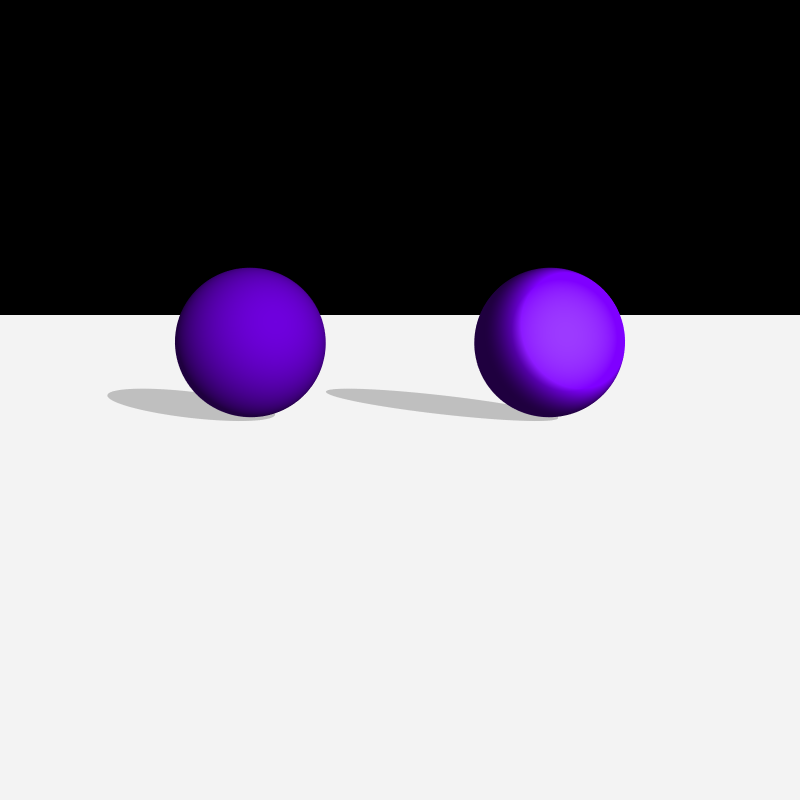
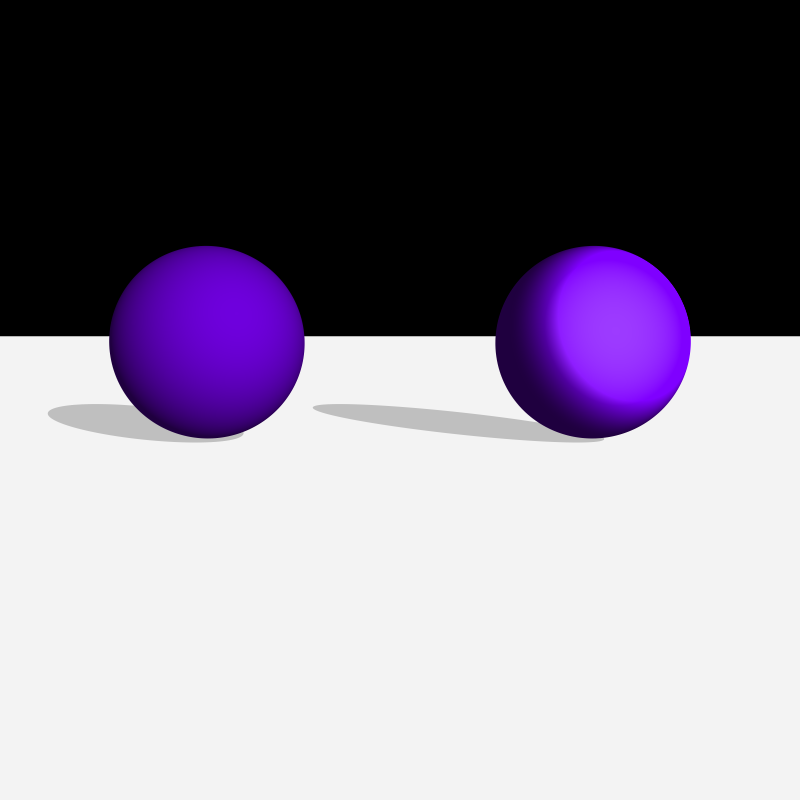
Added Ambient Occlusion, which will provide more shading to ambient points that are away from the light source

Changed region(s): [[0.0, 0.2812, 1.0, 0.5625]]

diff --git a/wxraytracer/wxRaytracer/raytracer/Lights/AmbientOccluder.cpp b/wxraytracer/wxRaytracer/raytracer/Lights/AmbientOccluder.cpp
@@ -1,0 +1,96 @@
+#include "AmbientOccluder.h"
+#include "World.h"
+
+AmbientOccluder::AmbientOccluder(void) : Light(), u(1.0,0.0,0.0), v(0.0,1.0,0.0), w(0.0,0.0,1.0), sampler_ptr(NULL), min_amount(0.0), ls(1.0), color(white){ }
+
+AmbientOccluder::AmbientOccluder(const AmbientOccluder& a) : Light(a), ls(a.ls), color(a.color),
+							u(a.u), v(a.v), w(a.w), sampler_ptr(a.sampler_ptr), min_amount(a.min_amount){ }
+
+Light* AmbientOccluder::clone(void) const{
+
+	return new AmbientOccluder(*this);
+}
+
+AmbientOccluder& AmbientOccluder::operator= (const AmbientOccluder& rhs){
+
+	if(this == &rhs)
+		return *this;
+
+	Light::operator=(rhs);
+
+	u = rhs.u;
+	v = rhs.v;
+	w = rhs.w;
+	color = rhs.color;
+	ls = rhs.ls;
+	sampler_ptr = rhs.sampler_ptr;
+	min_amount = rhs.min_amount;
+
+	return *this;
+
+}
+
+Vector3D AmbientOccluder::get_direction(ShadeRec& sr){
+
+	Point3D sp = sampler_ptr->sample_hemisphere();
+
+	return (sp.x * u + sp.y * v + sp.z * w);
+}
+
+RGBColor AmbientOccluder::L(ShadeRec& sr){
+
+	w = sr.normal;
+
+	// jitter up vector in case normal is vertical;
+	v = w ^ Vector3D(0.0072, 1.0 , 0.0034);
+	v.normalize();
+
+	u = v ^ w;
+
+	Ray shadow_ray;
+	shadow_ray.o = sr.hit_an_object;
+	shadow_ray.d = get_direction(sr);
+
+	if( in_shadow(shadow_ray, sr))
+		return min_amount * ls * color;
+	else
+		return ls * color;
+
+}
+
+bool AmbientOccluder::in_shadow(const Ray& ray, const ShadeRec& sr) const{
+	
+	float t;
+	int num_objects = sr.w.objects.size();
+
+	for (int i = 0; i < num_objects; ++i){
+
+		if(sr.w.objects[i]->shadow_hit(ray, t))
+			return true;
+
+	}
+	return false;
+}
+
+void AmbientOccluder::set_sampler(Sampler* s_ptr){
+
+	if(sampler_ptr){
+		
+		delete sampler_ptr;
+		sampler_ptr = NULL;
+
+	}
+
+	sampler_ptr = s_ptr;
+	sampler_ptr->map_samples_to_hemisphere(1);
+}
+
+AmbientOccluder::~AmbientOccluder(void)
+{
+	if(sampler_ptr){
+		
+		delete sampler_ptr;
+		sampler_ptr = NULL;
+
+	}
+}

diff --git a/wxraytracer/wxRaytracer/raytracer/Lights/AmbientOccluder.h b/wxraytracer/wxRaytracer/raytracer/Lights/AmbientOccluder.h
@@ -1,0 +1,47 @@
+#ifndef __AMBIENTOCCLUDER__
+#define __AMBIENTOCCLUDER__
+
+#include "Light.h"
+#include "Sampler.h"
+
+class AmbientOccluder : public Light
+{
+public:
+	AmbientOccluder(void);
+
+	AmbientOccluder(const AmbientOccluder& l);
+
+	virtual Light* clone(void) const;
+
+	AmbientOccluder& operator=(const AmbientOccluder& rhs);
+	
+	virtual Vector3D get_direction(ShadeRec& sr);
+
+	virtual RGBColor L(ShadeRec& sr);
+
+	virtual bool in_shadow(const Ray& ray, const ShadeRec& sr) const;
+
+	virtual ~AmbientOccluder(void);
+
+	void set_sampler(Sampler *s_ptr);
+
+	void scale_radiance(const float b);
+
+private:
+
+	Vector3D u, v, w;
+	Sampler* sampler_ptr;
+	float ls;
+	RGBColor color;
+	RGBColor min_amount;
+
+};
+
+inline void AmbientOccluder::scale_radiance(const float b){
+
+	ls = b;
+}
+
+
+
+#endif

diff --git a/wxraytracer/wxRaytracer/raytracer/World/World.cpp b/wxraytracer/wxRaytracer/raytracer/World/World.cpp
@@ -13,6 +13,7 @@
 // lights
 
 #include "Ambient.h"
+#include "AmbientOccluder.h"
 #include "PointLight.h"
 
 // tracers
